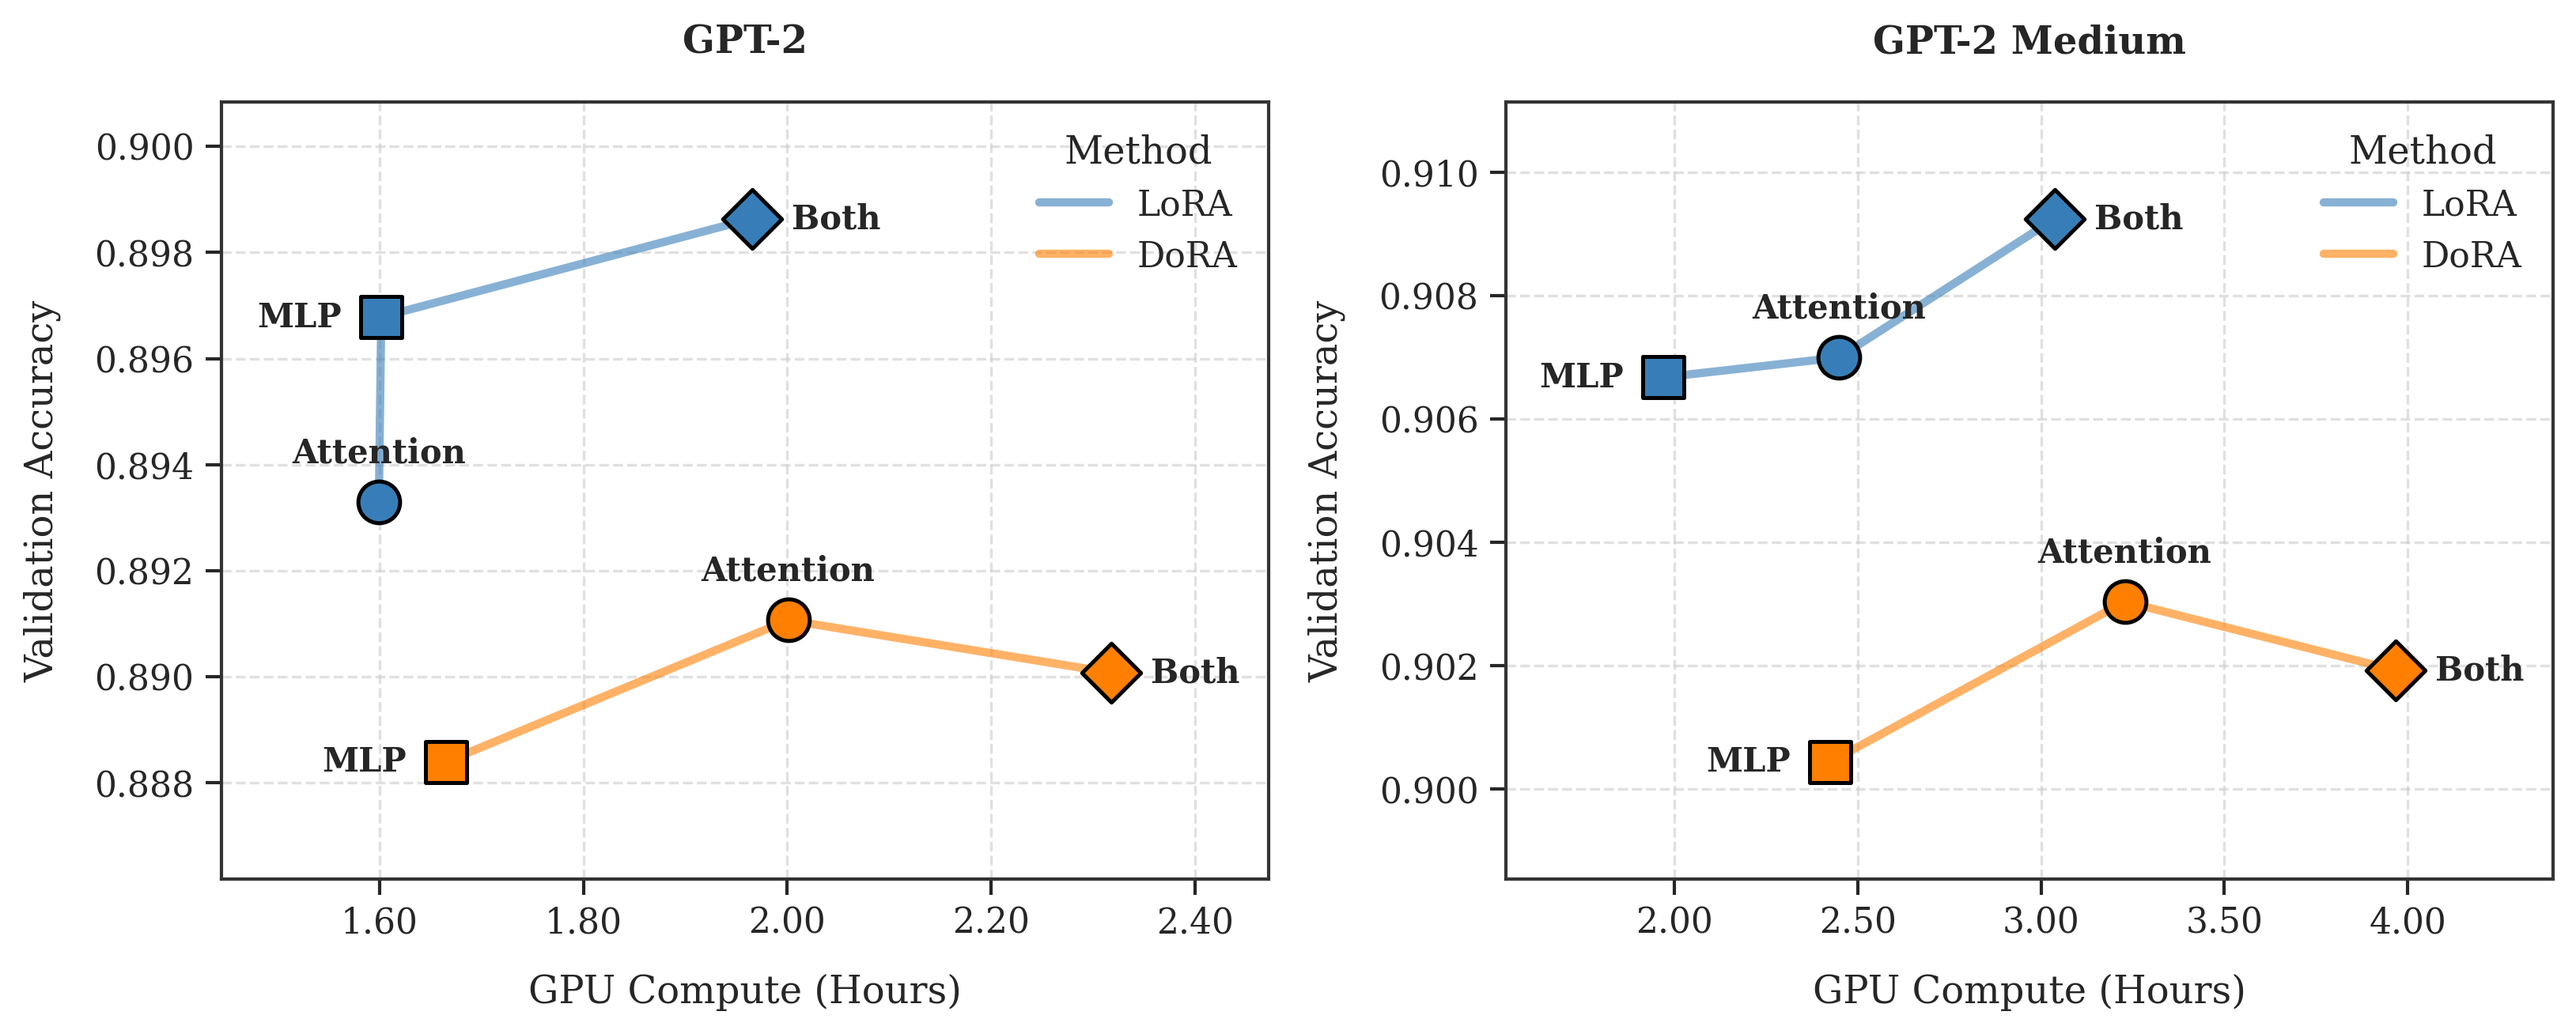
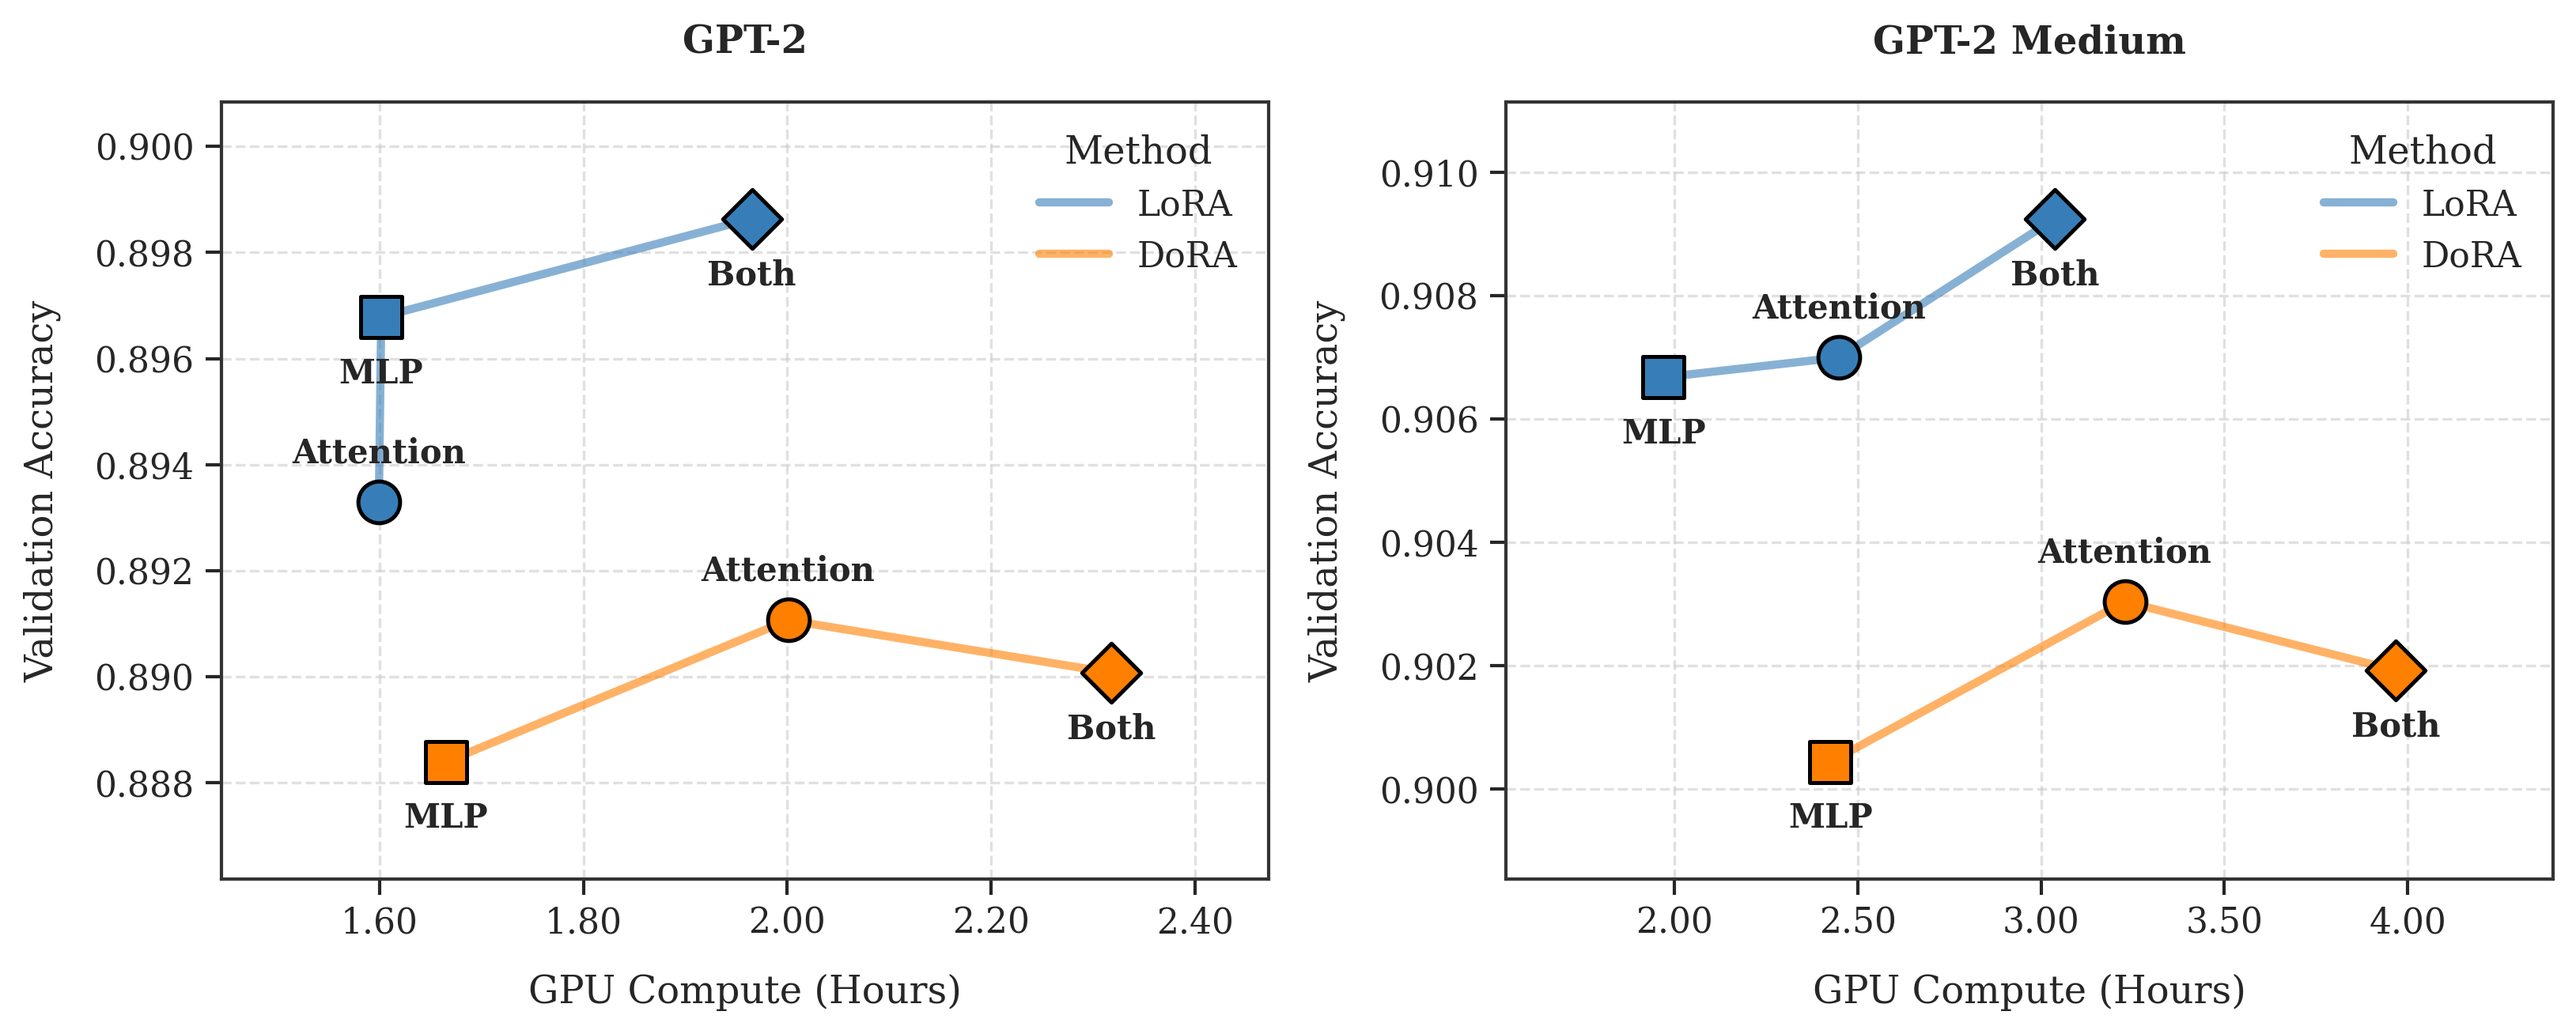
update graph

diff --git a/experiments_tables/generate_paper_ablation_plots.py b/experiments_tables/generate_paper_ablation_plots.py
@@ -115,11 +115,12 @@ def plot_module_ablation(csv_path, metric_col, metric_label, output_filename, is
                     offset_x, offset_y = 0, 10
                     ha, va = 'center', 'bottom'
                     if target == "Both":
-                        offset_x, offset_y = 12, 0
-                        ha, va = 'left', 'center'
+                        # Move text below the point to prevent right-edge overlap with legend/margins
+                        offset_x, offset_y = 0, -12
+                        ha, va = 'center', 'top'
                     elif target == "MLP":
-                        offset_x, offset_y = -12, 0
-                        ha, va = 'right', 'center'
+                        offset_x, offset_y = 0, -12
+                        ha, va = 'center', 'top'
                         
                     ax.annotate(
                         target, 
